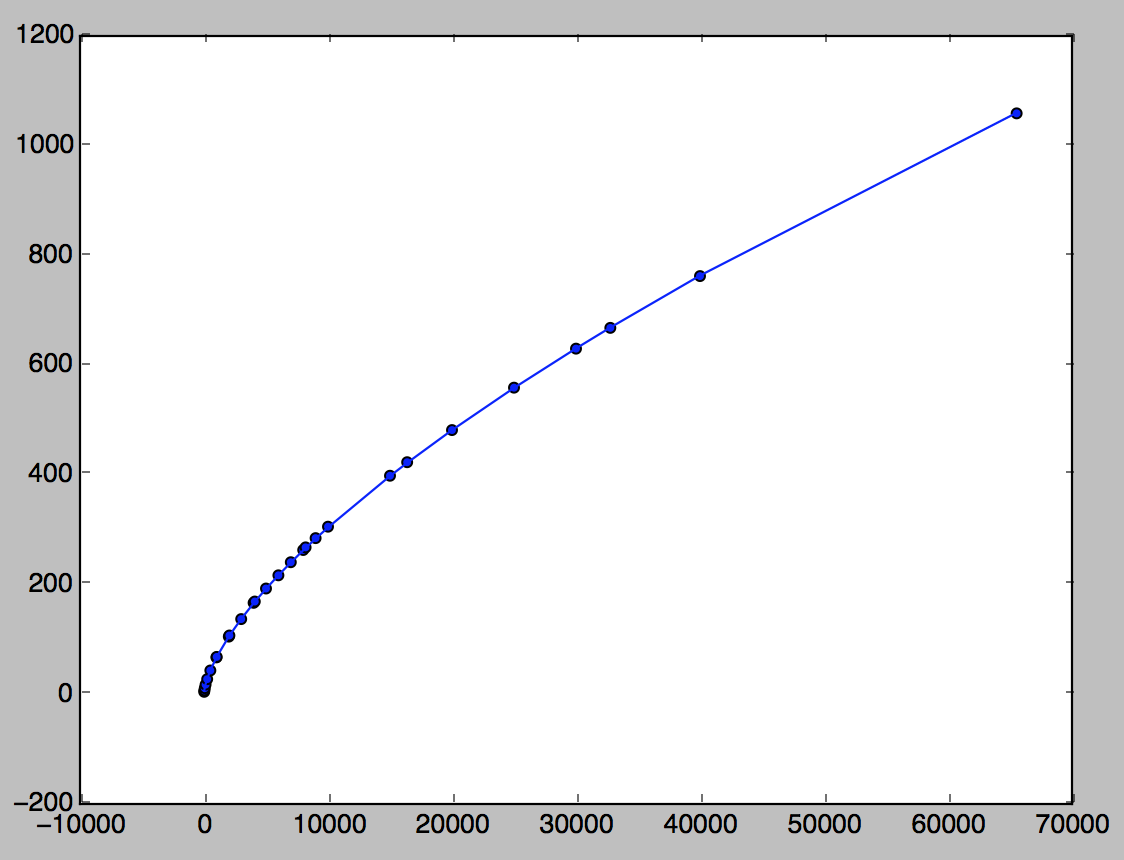
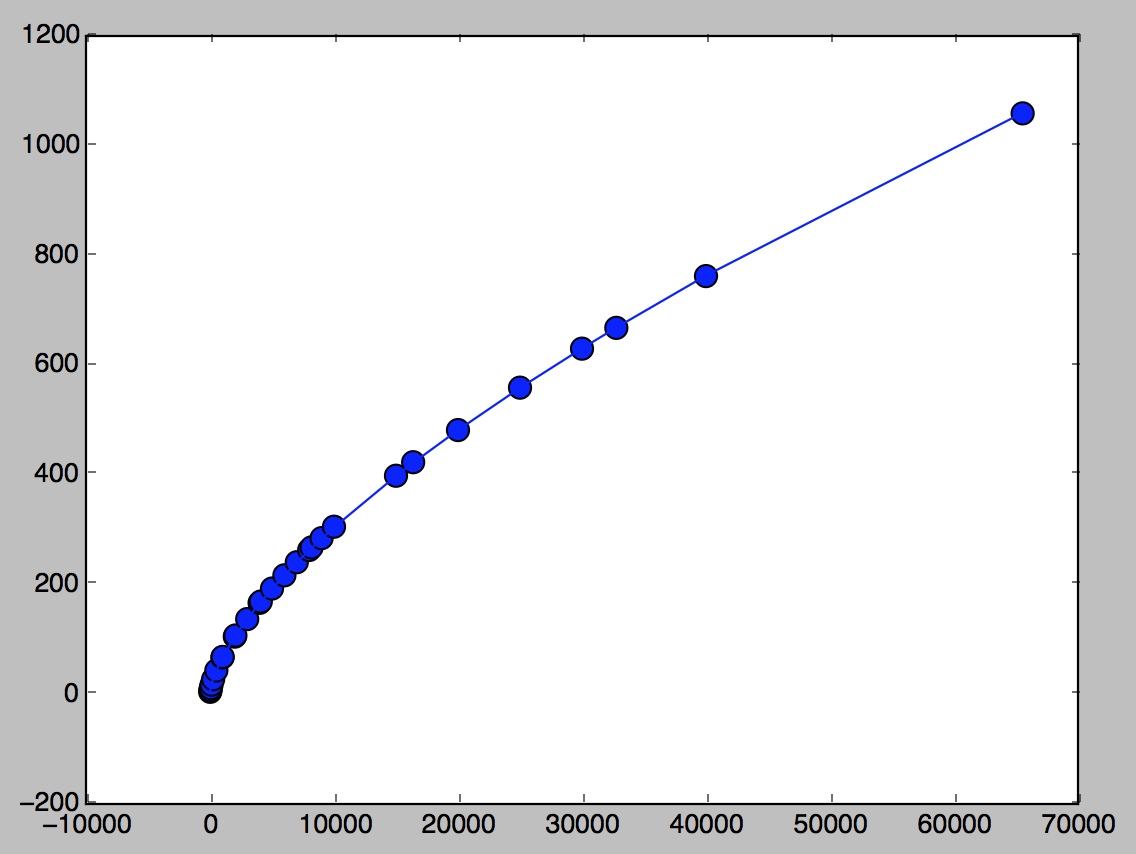
add d0 img

diff --git a/prog1/plotoutput.py b/prog1/plotoutput.py
@@ -30,20 +30,6 @@ from scipy.optimize import curve_fit
 # def fit_func(x,a,b,c):
 #     return a*x**b + c
 
-# # Fitting Dimension 0
-# # params0 = curve_fit(fit_func, x, ds[2])
-# # [a0, b0, c0] = params0[0]
-# # print "Dimension 2"
-# # print a0, b0, c0
-# # # a0 = 19.0172521584 
-# # # b0 = 0.0761892397838 
-# # # c0 = -22.4122322355
-
-# # plt.figure(1)
-# # plt.plot(x, fit_func(x,a0,b0,c0))
-# # plt.scatter(x,ds[4])
-# # plt.show()
-
 # # Fitting Dimension 2
 # params2 = curve_fit(fit_func, x, ds[2])
 # [a2, b2, c2] = params2[0]
@@ -88,7 +74,7 @@ from scipy.optimize import curve_fit
 
 #####################################################################
 
-# Looks like polynomial is to the power of (d-1)/d
+# Looks like polynomial is to the power of (d-1)/d for d=2,3,4
 def fit_func_2(x,a,c):
 	return a*x**(1.0/2.0) + c
 
@@ -107,7 +93,7 @@ print("Dimension 2 %.4f %.4f" %(a2,c2))
 
 plt.figure(2)
 plt.plot(x, fit_func_2(x,a2,c2))
-plt.scatter(x,ds[2])
+plt.scatter(x,ds[2],100)
 plt.show()
 
 # Fitting Dimension 3
@@ -119,7 +105,7 @@ print("Dimension 3 %.4f %.4f" %(a3,c3))
 
 plt.figure(3)
 plt.plot(x, fit_func_3(x,a3,c3))
-plt.scatter(x,ds[3])
+plt.scatter(x,ds[3],100)
 plt.show()
 
 # Fitting Dimension 4
@@ -131,5 +117,15 @@ print("Dimension 4 %.4f %.4f" %(a4,c4))
 
 plt.figure(4)
 plt.plot(x, fit_func_4(x,a4,c4))
-plt.scatter(x,ds[4])
+plt.scatter(x,ds[4],100)
+plt.show()
+
+#####################################################################
+
+# Avg Total Weight converges to 1.2 for dimension 0
+plt.figure(1)
+plt.plot([-10000, 70000], [1.2, 1.2])
+plt.scatter(x,ds[0],100)
+plt.xlim([-10000, 70000])
+plt.ylim([0, 2])
 plt.show()
